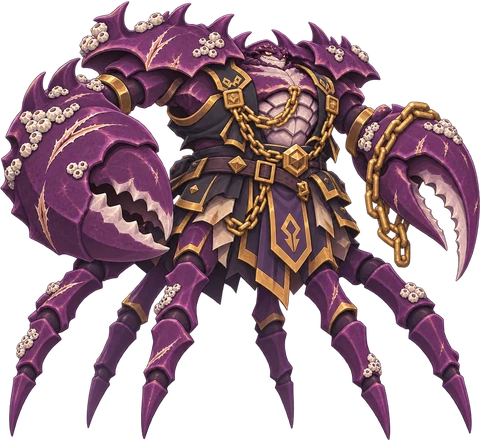
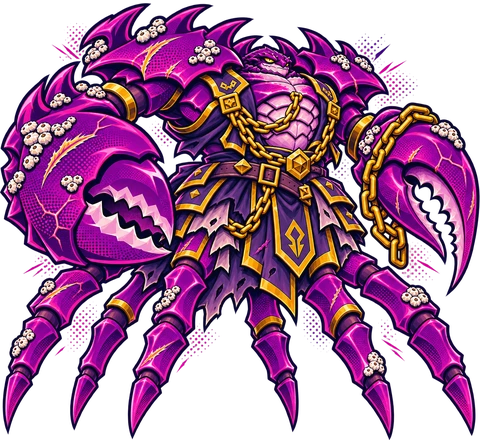
Artes dos Abyssais com retículas e efeitos preservados + Lumina, Medusa, Garra-Funda e Vespertina; recorte de fundo com matting (sem halo)
Claude-Session: https://claude.ai/code/session_019CTdQ6djbXyMqKZUfEDumg

diff --git a/tools/arte_recorte.py b/tools/arte_recorte.py
@@ -1,48 +1,43 @@
-"""Recorta o fundo claro (com retícula) de uma arte nova e entrega PNG transparente.
+"""Recorta o fundo claro de uma arte nova e entrega PNG transparente, PRESERVANDO retículas,
+manchas e efeitos soltos (fazem parte do estilo do jogo).
 python3 tools/arte_recorte.py entrada.png saida.png
-Fluxo: flood fill a partir das bordas na cor do fundo; vãos fechados também somem se forem
-quase idênticos ao fundo e grandes; ilhas pequenas (pontinhos da retícula) são removidas."""
+Fluxo: flood fill a partir das bordas na cor do fundo; vãos fechados quase idênticos ao fundo
+também somem. Na região do fundo (e 2px em volta) a transparência é calculada pela distância à cor
+do fundo e a cor é "desmisturada" dele, assim pontos de retícula e bordas suaves ficam limpos,
+sem halo claro."""
 import sys
 import numpy as np
-from PIL import Image, ImageFilter
+from PIL import Image
 from scipy import ndimage as ndi
 
 
-def cut(src, dst, tol=20, tol_in=7, min_island=0.0006, min_hole=0.0012):
+def cut(src, dst, tol=14, tol_in=7, min_hole=0.0012, full=70.0):
     im = Image.open(src).convert("RGB")
-    a = np.asarray(im).astype(np.int16)
+    a = np.asarray(im).astype(np.float32)
     H, W, _ = a.shape
     border = np.concatenate([a[0], a[-1], a[:, 0], a[:, -1]])
     bg = np.median(border, axis=0)
     dist = np.abs(a - bg).max(axis=2)
-    cand = dist <= tol
-    lab, n = ndi.label(cand)
-    edge_labels = set(np.unique(np.concatenate([lab[0], lab[-1], lab[:, 0], lab[:, -1]]))) - {0}
-    bgmask = np.isin(lab, list(edge_labels))
+    lab, n = ndi.label(dist <= tol)
+    edge = set(np.unique(np.concatenate([lab[0], lab[-1], lab[:, 0], lab[:, -1]]))) - {0}
+    bgmask = np.isin(lab, list(edge))
     # vãos fechados quase idênticos ao fundo (entre braço e corpo etc.)
-    tight = dist <= tol_in
-    lab2, n2 = ndi.label(tight & ~bgmask)
+    lab2, n2 = ndi.label((dist <= tol_in) & ~bgmask)
     if n2:
         sizes = ndi.sum(np.ones_like(lab2), lab2, index=np.arange(1, n2 + 1))
         for i, s in enumerate(sizes, 1):
             if s > min_hole * W * H:
                 bgmask |= lab2 == i
-    fg = ~bgmask
-    # tira ilhas pequenas (pontos da retícula)
-    lab3, n3 = ndi.label(fg)
-    if n3:
-        sizes = ndi.sum(np.ones_like(lab3), lab3, index=np.arange(1, n3 + 1))
-        keep = np.zeros(n3 + 1, bool)
-        keep[1:] = sizes >= min_island * W * H
-        fg = keep[lab3]
-    fg = ndi.binary_opening(fg, iterations=1)
-    # contorno suave: 1px menor + leve desfoque
-    fg = ndi.binary_erosion(fg, iterations=1)
-    al = Image.fromarray((fg * 255).astype(np.uint8)).filter(ImageFilter.GaussianBlur(0.8))
-    out = im.convert("RGBA")
-    out.putalpha(al)
-    out.save(dst)
-    return out.size
+    # zona de matting: o fundo e 2px em volta dele (pontos soltos, bordas)
+    zone = ndi.binary_dilation(bgmask, iterations=2)
+    alpha = np.where(zone, np.clip(dist / full, 0.0, 1.0), 1.0)
+    alpha = np.where(bgmask & (dist <= tol_in), 0.0, alpha)
+    al = np.maximum(alpha, 1e-3)[..., None]
+    col = np.where(zone[..., None], (a - bg * (1 - al)) / al, a)
+    col = np.clip(col, 0, 255)
+    out = np.dstack([col, alpha * 255]).astype(np.uint8)
+    Image.fromarray(out, "RGBA").save(dst)
+    return im.size
 
 
 if __name__ == "__main__":
